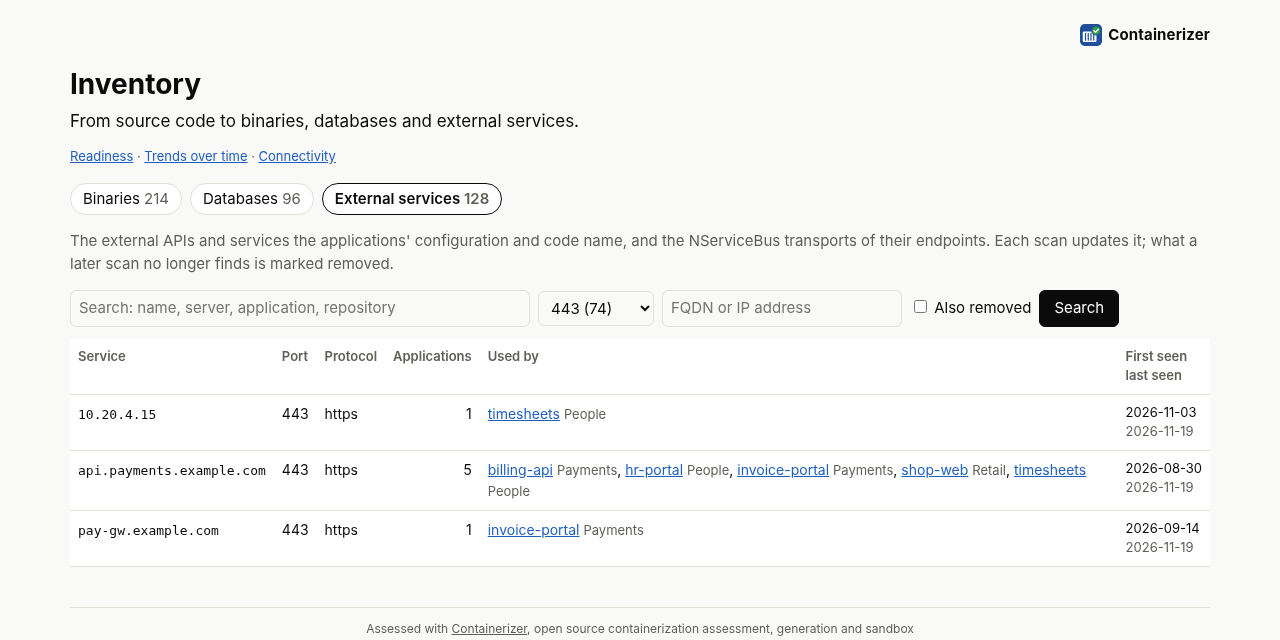
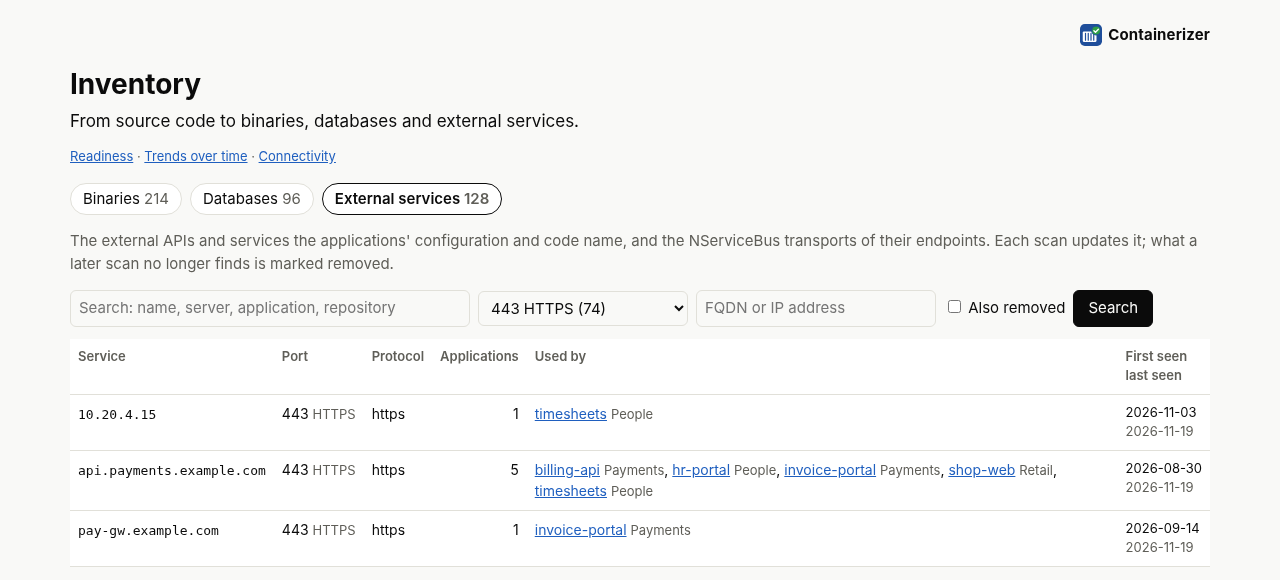
Inventory: well-known port protocols in the services view
Claude-Session: https://claude.ai/code/session_01HpAsQaEaioqU6AskpoHk8q

Changed region(s): [[0.0312, 0.1241, 0.9375, 0.9621], [0.2812, 0.9621, 0.7188, 0.9931], [0.8438, 0.031, 0.9375, 0.0931]]

diff --git a/containerizer/inventory.py b/containerizer/inventory.py
@@ -382,6 +382,26 @@ def combine(rows: list[dict]) -> list[dict]:
     return list(out.values())
 
 
+WELL_KNOWN = {      # the protocol a well-known port carries, for the Port drop-down and column
+    20: "FTP data", 21: "FTP", 22: "SSH / SFTP", 23: "Telnet", 25: "SMTP", 53: "DNS", 80: "HTTP", 88: "Kerberos",
+    110: "POP3", 123: "NTP", 135: "MS RPC", 137: "NetBIOS", 139: "NetBIOS / SMB", 143: "IMAP", 161: "SNMP",
+    389: "LDAP", 443: "HTTPS", 445: "SMB", 465: "SMTPS", 514: "Syslog", 587: "SMTP submission", 636: "LDAPS",
+    993: "IMAPS", 995: "POP3S", 1080: "SOCKS proxy", 1433: "SQL Server", 1434: "SQL Server Browser", 1521: "Oracle",
+    1883: "MQTT", 2049: "NFS", 2181: "ZooKeeper", 2375: "Docker", 2376: "Docker (TLS)", 3268: "LDAP Global Catalog",
+    3269: "LDAPS Global Catalog", 3306: "MySQL / MariaDB", 3389: "RDP", 4222: "NATS", 5000: "HTTP (dev)",
+    5001: "HTTPS (dev)", 5044: "Logstash Beats", 5432: "PostgreSQL", 5671: "AMQPS", 5672: "AMQP (RabbitMQ)",
+    5985: "WinRM", 5986: "WinRM (HTTPS)", 6379: "Redis", 6380: "Redis (TLS)", 7000: "Cassandra", 8080: "HTTP (alt)",
+    8081: "HTTP (alt)", 8443: "HTTPS (alt)", 8883: "MQTT (TLS)", 9000: "HTTP (alt)", 9042: "Cassandra CQL",
+    9092: "Kafka", 9093: "Kafka (TLS)", 9200: "Elasticsearch", 9300: "Elasticsearch transport",
+    9418: "Git", 11211: "Memcached", 15672: "RabbitMQ management", 27017: "MongoDB", 50000: "DB2",
+}
+
+
+def port_text(port) -> str:
+    """A port with the protocol it usually carries: "443 HTTPS"."""
+    return f"{port} {WELL_KNOWN[port]}" if port in WELL_KNOWN else str(port)
+
+
 def _service_filters(counts: dict, f: dict) -> str:
     """The external services' Port drop-down (the ports there are, with how many services use each) and the FQDN or IP
     address filter."""
@@ -389,7 +409,7 @@ def _service_filters(counts: dict, f: dict) -> str:
     for port, n in counts.get("ports") or []:
         v = str(port) if port is not None else "none"
         opts.append(f"<option value='{v}'{' selected' if f.get('port') == v else ''}>"
-                    f"{e(str(port) if port is not None else 'No port')} ({int(n)})</option>")
+                    f"{e(port_text(port) if port is not None else 'No port')} ({int(n)})</option>")
     return (f"<select name='port' aria-label='Port'>{''.join(opts)}</select> "
             f"<input name='host' value='{e(f.get('host') or '')}' placeholder='FQDN or IP address' "
             f"aria-label='FQDN or IP address' maxlength='100' class='host'> ")
@@ -411,7 +431,9 @@ def _services(rows: list[dict]) -> tuple[str, int]:
                                         f"{', '.join(links[10:])}</details>" if len(links) > 10 else "")
         gone = f" <span class='st st-off'>removed {_d(g['RemovedAt'])}</span>" if g["RemovedAt"] else ""
         port = g["Port"] if g["Port"] else ", ".join(g["servers"])     # an NServiceBus transport: its endpoints
-        trs.append(f"<tr><td><code>{e(g['Name'])}</code>{gone}</td><td>{e(str(port or ''))}</td>"
+        port_cell = (f"{int(port)} <span class='muted small'>{e(WELL_KNOWN[port])}</span>" if port in WELL_KNOWN
+                     else e(str(port or '')))
+        trs.append(f"<tr><td><code>{e(g['Name'])}</code>{gone}</td><td class='nowrap'>{port_cell}</td>"
                    f"<td>{e(', '.join(g['protocols']))}</td><td class='num'>{len(apps)}</td><td>{cell}</td>"
                    f"<td class='small nowrap'>{_d(g['FirstSeenAt'])}<div class='muted'>{_d(g['LastSeenAt'])}</div></td></tr>")
     table = ("<table><thead><tr><th>Service</th><th>Port</th><th>Protocol</th><th>Applications</th>"

diff --git a/containerizer/webui.py b/containerizer/webui.py
@@ -1589,7 +1589,7 @@ font-size:11px;font-weight:700;border-radius:4px;color:#fff}.cell.rB,.cell.rC{co
 .good{color:#006300;font-weight:600}.bad{color:#b42727;font-weight:600}
 @media (prefers-color-scheme:dark){.good{color:#4fd14f}.bad{color:#f07a7a}}
 .chips+.chips{margin-top:8px}
-.invsearch{display:flex;gap:8px;align-items:center;flex-wrap:wrap;margin:12px 0}.invsearch input[name=q]{width:auto;flex:0 1 460px;min-width:260px}.invsearch input.host{width:auto;flex:0 1 240px;min-width:180px}.invsearch select{width:auto}
+.invsearch{display:flex;gap:8px;align-items:center;flex-wrap:wrap;margin:12px 0}.invsearch input[name=q]{width:auto;flex:0 1 400px;min-width:220px}.invsearch input.host{width:auto;flex:0 1 240px;min-width:180px}.invsearch select{width:auto;max-width:210px}
 .tag.auto{font-style:italic}.stateful-mark{display:inline-block;margin-left:6px;font-size:12px;padding:1px 6px;border:1px solid currentColor;border-radius:8px;opacity:.8;vertical-align:middle}
 .chips.tags{align-items:center}.chip.tagchip{font-size:13px;padding:2px 10px}
 span.role{display:inline-flex;gap:6px;align-items:center;border:1px solid var(--line);border-radius:999px;padding:1px 10px;font-size:13px;

diff --git a/tests/test_inventory.py b/tests/test_inventory.py
@@ -258,7 +258,8 @@ def test_external_services_are_combined_with_the_applications_that_use_them():
     table = body[body.index("<table>"):]
     assert table.count("<code>api.payments.example.com</code>") == 2 and table.count("<tr>") == 4
     assert "href='/app/7' title='Billing.Api (appsettings.json:3); Billing.Worker (appsettings.json:5)'>billing</a>" in table
-    assert "<option value='443' selected>443 (1)</option>" in body and "<option value='none'>No port (1)</option>" in body
+    assert "<option value='443' selected>443 HTTPS (1)</option>" in body and "8443 HTTPS (alt) (1)" in body
+    assert "<td class='nowrap'>443 <span class='muted small'>HTTPS</span></td>" in table and "<option value='none'>No port (1)</option>" in body
     assert "name='host' value='payments'" in body
     assert inventory.parse_filters({"port": ["443; drop"], "host": [" 10.1 .2 "]}) == {"port": "", "host": "10.1.2"}
     assert inventory.keep_query({"kind": ["service"], "port": ["443"], "host": ["10.1"]}) == "kind=service&port=443&host=10.1"

diff --git a/docs/inventory.md b/docs/inventory.md
@@ -25,7 +25,7 @@ latest A-rated one): those items are first seen at that update. The databases co
 
 **External services** lists each service once (its host and port), with how many applications use it and which
 (hover over an application for its components and the files and lines that name the service). Pick a **port** from
-the drop-down (each port there is, with how many services use it), and type part of an **FQDN or IP address** to
+the drop-down (each port there is, with the protocol a well-known port carries and how many services use it), and type part of an **FQDN or IP address** to
 narrow the list down; the search box still searches every column.
 
 ![The inventory: external services on port 443, each with the applications that use it](images/results-inventory-services.png#only-light){ .cz-shot }

diff --git a/CHANGELOG.md b/CHANGELOG.md
@@ -10,6 +10,9 @@ it as an app update, without an OS upgrade. OS changes go into a minor or major 
 
 ## 0.51.23 (2026-11-19)
 
+- **Inventory → External services** names the protocol of well-known ports (443 HTTPS, 1433 SQL Server, 5672 AMQP,
+  6379 Redis, ...) in the **Port** drop-down and column.
+
 - **Admin → Developers** has a **With a business unit** filter: the developers already mapped to a business unit.
 
 ## 0.51.22 (2026-11-19)
